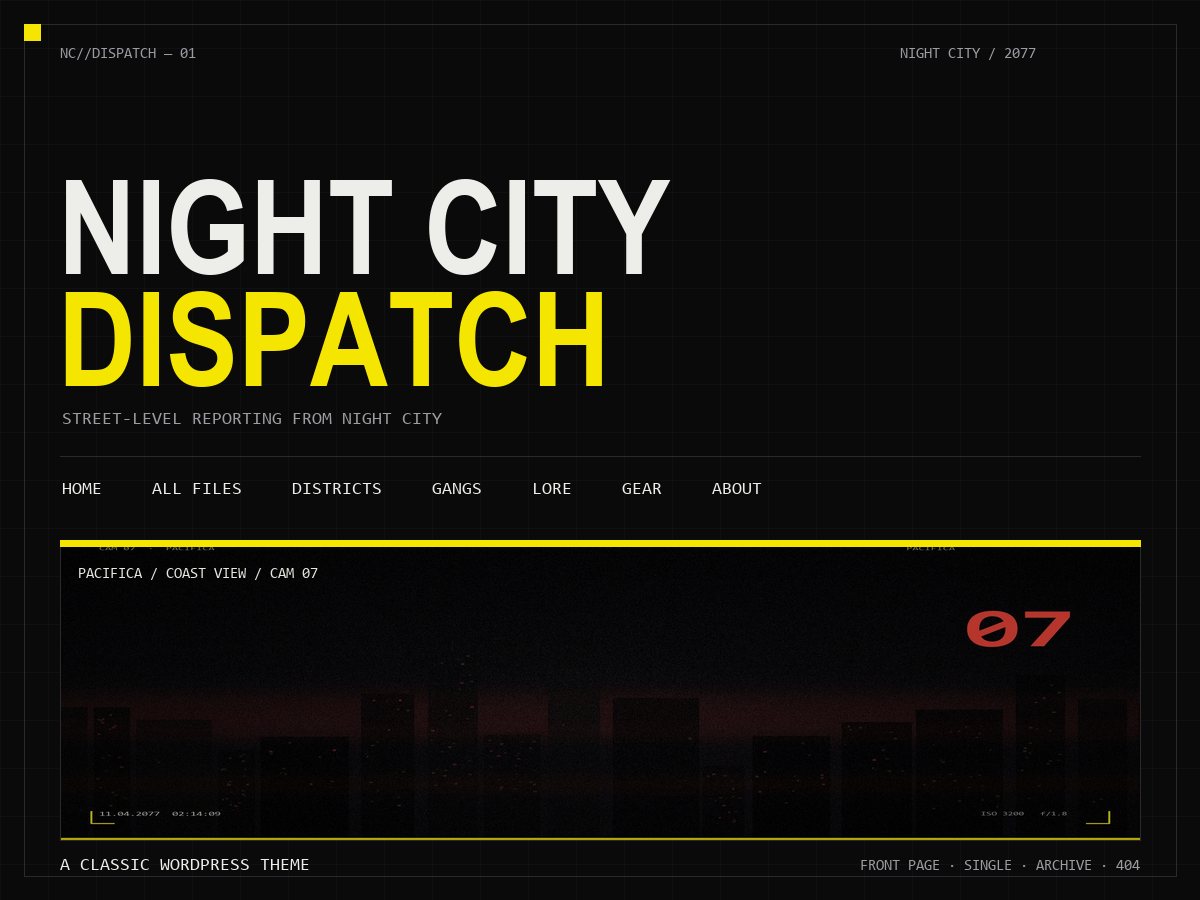
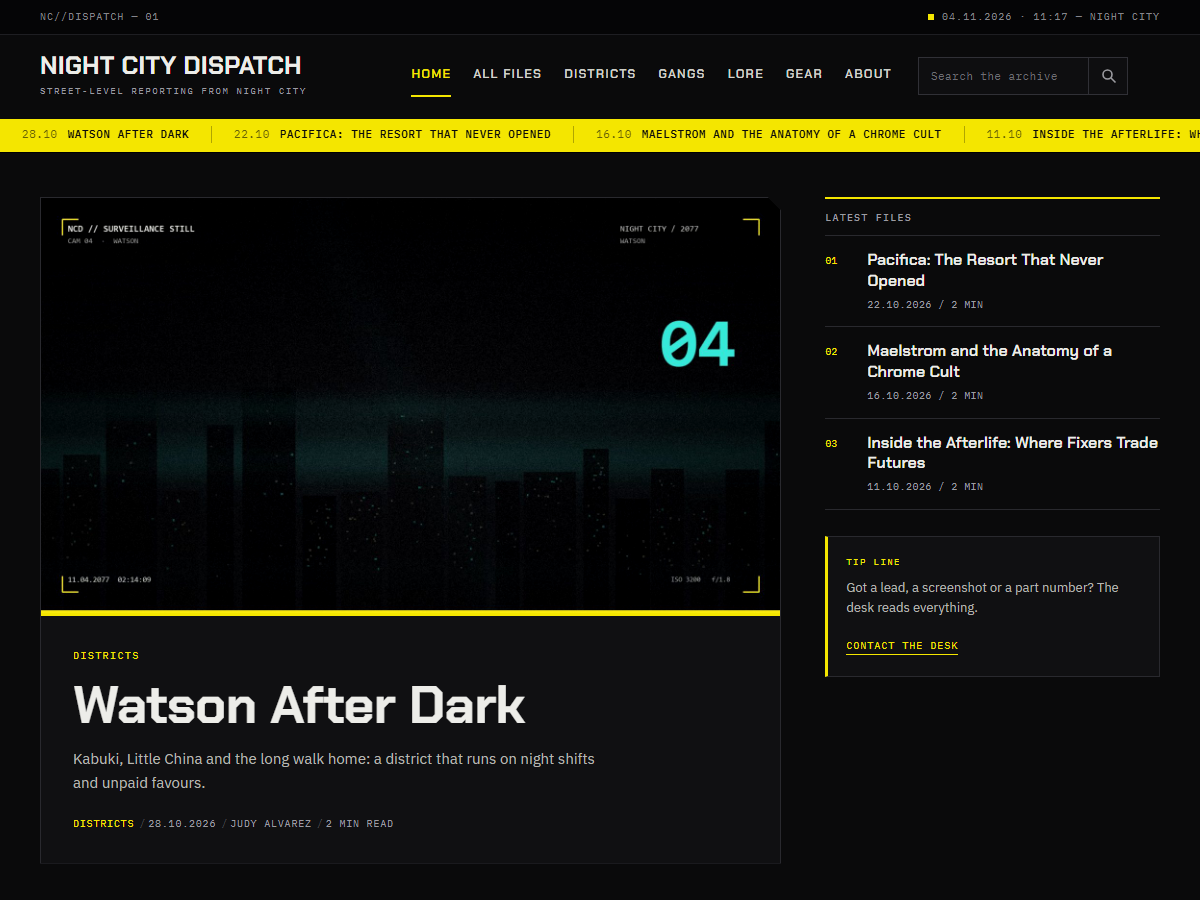
Use the real theme screenshot and finish front page hierarchy
Full 16:9 lead image without cropping, sections grid renamed, tip line card,
and the front page capture as the theme screenshot.

diff --git a/assets/css/main.css b/assets/css/main.css
@@ -555,14 +555,16 @@ button {
 }
 
 .hero__media {
+	position: relative;
 	display: block;
 	aspect-ratio: 16 / 9;
-	max-height: 400px;
 	overflow: hidden;
 	background: var(--ink-3);
 }
 
 .hero__media img {
+	position: absolute;
+	inset: 0;
 	width: 100%;
 	height: 100%;
 	object-fit: cover;
@@ -662,40 +664,28 @@ button {
 	color: var(--muted);
 }
 
-.side-title--gap {
-	margin-top: 28px;
+.side-callout {
+	margin-top: 26px;
+	padding: 18px 18px 20px;
+	background: var(--ink-2);
+	border: 1px solid var(--line);
+	border-left: 3px solid var(--hazard);
 }
 
-.section-list {
-	list-style: none;
-	margin: 0;
-}
-
-.section-list__item {
-	border-bottom: 1px solid var(--line);
-}
-
-.section-list__item a {
-	display: flex;
-	align-items: baseline;
-	justify-content: space-between;
-	gap: 12px;
-	padding: 11px 0;
-	font-family: var(--font-display);
-	font-weight: 600;
-	font-size: 15px;
-	line-height: 1.2;
-}
-
-.section-list__item a:hover {
-	color: var(--hazard);
-}
-
-.section-list__count {
+.side-callout__label {
 	font-family: var(--font-mono);
-	font-size: 9.5px;
-	font-weight: 400;
-	color: var(--muted);
+	font-size: 9px;
+	letter-spacing: 0.16em;
+	text-transform: uppercase;
+	color: var(--hazard);
+	margin-bottom: 8px;
+}
+
+.side-callout__text {
+	font-size: 13px;
+	line-height: 1.55;
+	color: #b6b6b1;
+	margin-bottom: 12px;
 }
 
 /* --------------------------------------------------------------------------

diff --git a/front-page.php b/front-page.php
@@ -78,19 +78,15 @@ $ncd_sections = get_categories(
 					<?php endforeach; ?>
 				</ol>
 
-				<?php if ( $ncd_sections ) : ?>
-					<h2 class="side-title side-title--gap"><?php esc_html_e( 'Sections', 'night-city-dispatch' ); ?></h2>
-					<ul class="section-list">
-						<?php foreach ( $ncd_sections as $ncd_section ) : ?>
-							<li class="section-list__item">
-								<a href="<?php echo esc_url( get_category_link( $ncd_section->term_id ) ); ?>">
-									<span><?php echo esc_html( $ncd_section->name ); ?></span>
-									<span class="section-list__count"><?php echo esc_html( number_format_i18n( $ncd_section->count ) ); ?></span>
-								</a>
-							</li>
-						<?php endforeach; ?>
-					</ul>
-				<?php endif; ?>
+				<?php
+				$ncd_contact     = get_page_by_path( 'contact' );
+				$ncd_contact_url = $ncd_contact ? get_permalink( $ncd_contact ) : home_url( '/?s=contact' );
+				?>
+				<div class="side-callout">
+					<p class="side-callout__label"><?php esc_html_e( 'Tip line', 'night-city-dispatch' ); ?></p>
+					<p class="side-callout__text"><?php esc_html_e( 'Got a lead, a screenshot or a part number? The desk reads everything.', 'night-city-dispatch' ); ?></p>
+					<a class="text-link" href="<?php echo esc_url( $ncd_contact_url ); ?>"><?php esc_html_e( 'Contact the desk', 'night-city-dispatch' ); ?></a>
+				</div>
 			</aside>
 		</div>
 	</section>
@@ -133,8 +129,8 @@ $ncd_latest = new WP_Query(
 	<section class="section section--districts">
 		<div class="container">
 			<div class="section__head">
-				<h2 class="section__title"><?php esc_html_e( 'Districts', 'night-city-dispatch' ); ?></h2>
-				<span class="section__note"><?php esc_html_e( 'Browse the city by section', 'night-city-dispatch' ); ?></span>
+				<h2 class="section__title"><?php esc_html_e( 'Sections', 'night-city-dispatch' ); ?></h2>
+				<span class="section__note"><?php esc_html_e( 'Four desks, one city', 'night-city-dispatch' ); ?></span>
 			</div>
 
 			<div class="district-grid">

diff --git a/README.md b/README.md
@@ -2,6 +2,8 @@
 
 A classic WordPress theme built for an in-world fan magazine about Night City. Hazard yellow on ink, condensed display type, mono data labels and an off-white paper reading surface: the design language of a municipal terminal rather than a generic blog.
 
+![Night City Dispatch front page](screenshot.png)
+
 Built for the **WordPress Custom 1** module: a hand-built theme that follows the WordPress template hierarchy, pulls all content dynamically through the Loop, and ships reusable header/footer parts plus a `functions.php`.
 
 ## What is included
